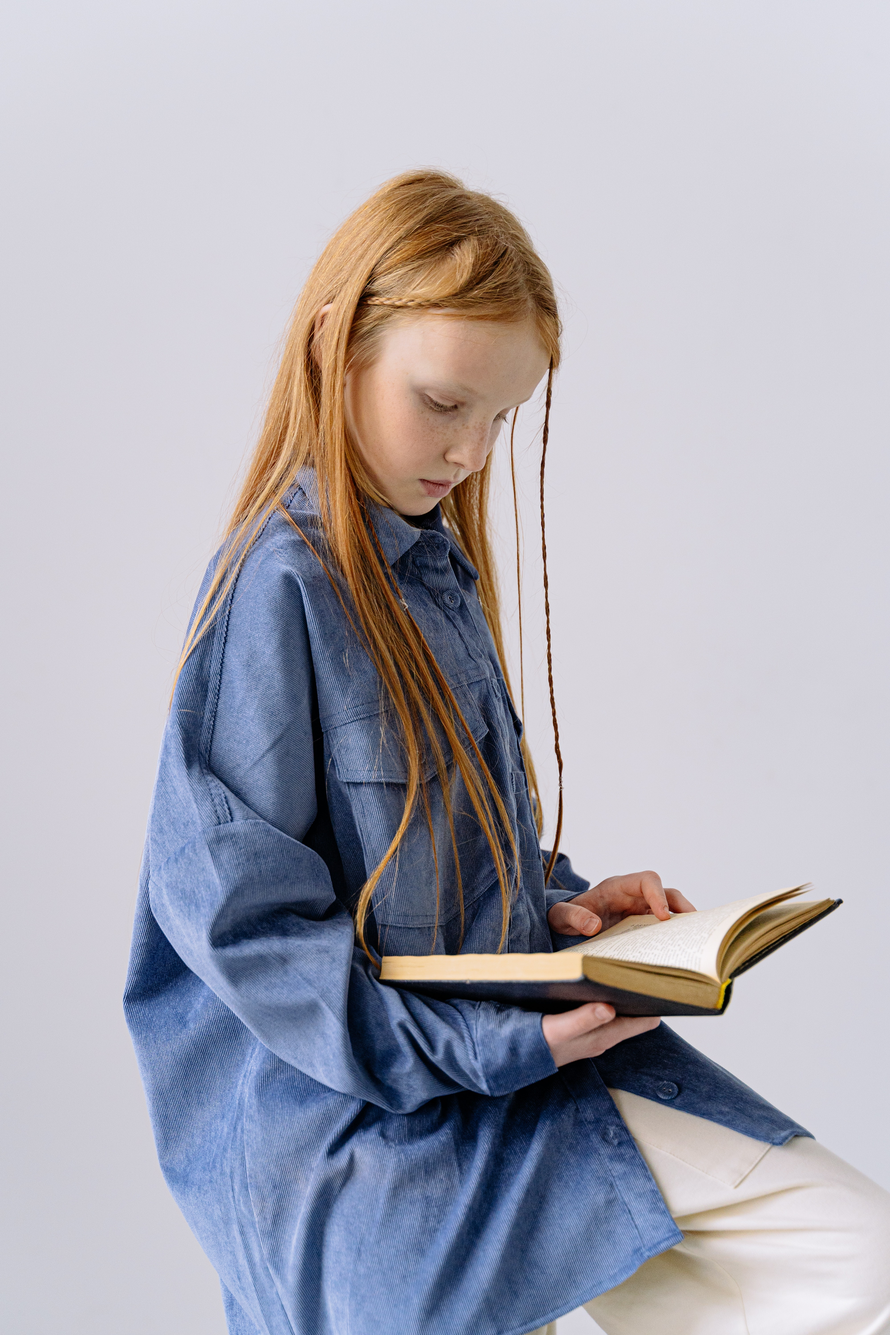
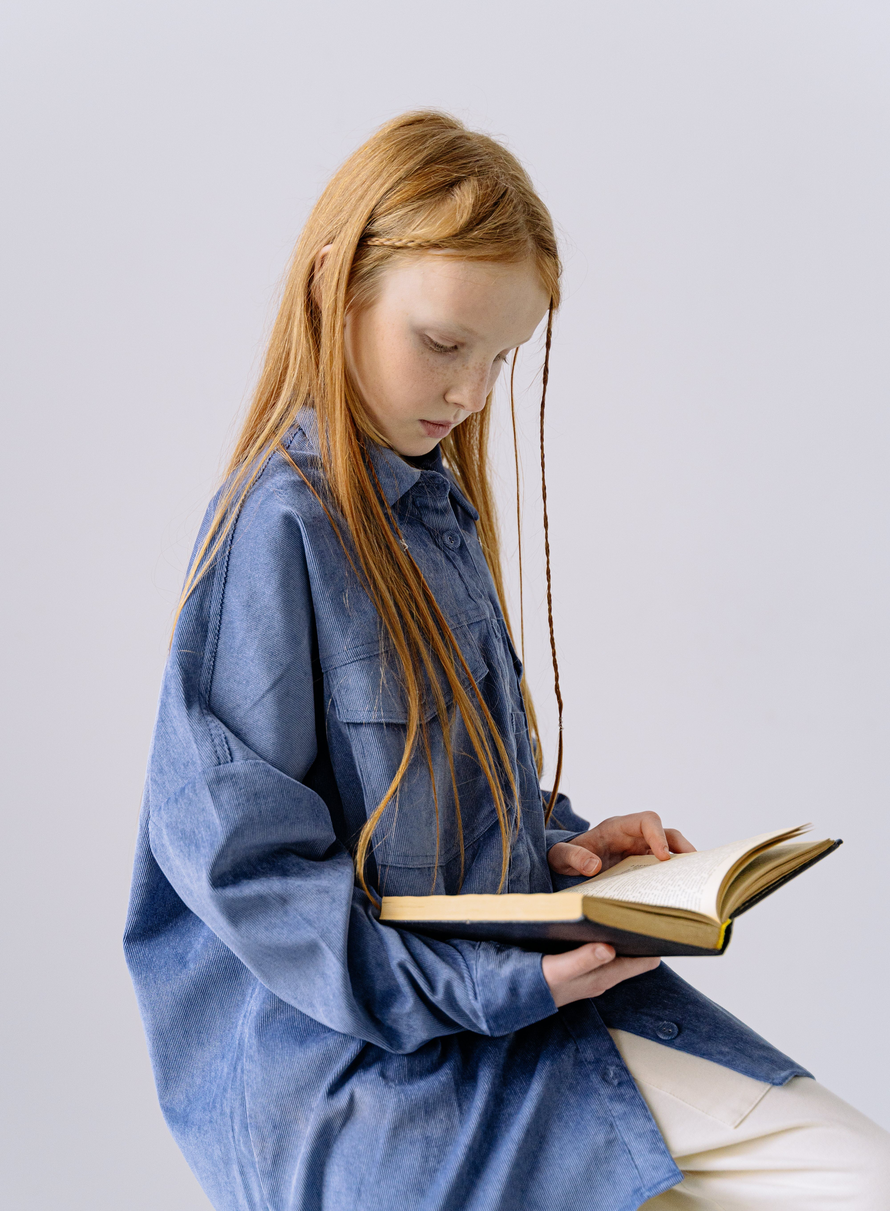
improve-on-hover

diff --git a/index.html b/index.html
@@ -5,6 +5,9 @@
     <title>Trường Quốc Tế</title>
     <meta charset="UTF-8" />
     <link rel="stylesheet" href="https://cdnjs.cloudflare.com/ajax/libs/font-awesome/4.7.0/css/font-awesome.min.css">
+    <link rel="stylesheet" href="https://cdnjs.cloudflare.com/ajax/libs/font-awesome/6.4.0/css/all.min.css"
+        integrity="sha512-iecdLmaskl7CVkqkXNQ/ZH/XLlvWZOJyj7Yy7tcenmpD1ypASozpmT/E0iPtmFIB46ZmdtAc9eNBvH0H/ZpiBw=="
+        crossorigin="anonymous" referrerpolicy="no-referrer" />
     <link rel="stylesheet" href="style.css">
     <script src="script.js"></script>
 </head>
@@ -15,7 +18,7 @@
         <nav>
             <div class="container">
                 <div class="logo">
-                    <img src="AIS-logo.svg" alt="logo">
+                    <img src="AIS-logo-white-l.svg" alt="logo">
                 </div>
                 <div class="menu">
                     <ul class="menu-list">
@@ -23,49 +26,61 @@
                             <a href="#">Về AIS</a>
                             <div class="menu-dropdown-head">
                                 <ul class="menu-dropdown-content">
-                                    <li><a href="#">Về Chúng Tôi</a></li>
-                                    <li><a href="#">Các cơ sở</a></li>
-                                    <li><a href="#">Kết quả học tập & giải thưởng</a></li>
+                                    <li><a href="#">Lời chào từ tổng hiệu trường</a></li>
+                                    <li><a href="#">Sứ mệnh</a></li>
+                                    <li><a href="#">Kiểm định & Giám định</a></li>
                                     <li><a href="#">Phương pháp học tập</a></li>
-                                    <li><a href="#">Our Team</a></li>
-                                    <li><a href="#">Cộng Đồng</a></li>
-                                    <li><a href="#">Cựu Sinh Viên</a></li>
-                                    <li><a href="#">Careers</a></li>
+                                    <li><a href="#">Ban giám hiệu</a></li>
+                                    <li><a href="#">Giáo viên</a></li>
+                                    <li><a href="#">Lịch học</a></li>
+                                    <li><a href="#">Cơ sở vật chất</a></li>
                                 </ul>
                             </div>
                         </li>
                         <li class="menu-dropdown">
-                            <a href="#">Dạy Và Học</a>
+                            <a href="#">Chương trình học</a>
                             <div class="menu-dropdown-head">
                                 <ul class="menu-dropdown-content">
-                                    <li><a href="#">Chứng Chỉ Tú Tài IB</a></li>
-                                    <li><a href="#">Học Thuật</a></li>
-                                    <li><a href="#">Giáo Trình Kết Hợp</a></li>
-                                    <li><a href="#">Chuẩn Bị Vào Đại Học</a></li>
+                                    <li><a href="#">Nguyên tắc học tập</a></li>
+                                    <li><a href="#">Hỗ Trợ Học Thuật</a></li>
+                                    <li><a href="#">Học tập từ xa</a></li>
+                                    <li><a href="#">Hoạt Động Ngoại Khóa</a></li>
                                 </ul>
                             </div>
                         </li>
-                        <li><a href="#">Khu Nội Trú</a></li>
+                        <li class="menu-dropdown">
+                            <a href="#">Đời Sống Học Sinh</a>
+                            <div class="menu-dropdown-head">
+                                <ul class="menu-dropdown-content">
+                                    <li><a href="#">Dịch Vụ Hỗ Trợ</a></li>
+                                    <li><a href="#">Học Tập Phục Vụ Cộng Đồng</a></li>
+                                    <li><a href="#">Hội Cựu Học Sinh</a></li>
+                                </ul>
+                            </div>
+                        </li>
                         <li class="menu-dropdown">
                             <a href="#">Tuyển Sinh</a>
                             <div class="menu-dropdown-head">
                                 <ul class="menu-dropdown-content">
+                                    <li><a href="#">Tiêu Chí Tuyển Sinh</a></li>
                                     <li><a href="#">Quy Trình Tuyển Sinh</a></li>
-                                    <li><a href="#">Đăng Kí Trực Tuyến</a></li>
-                                    <li><a href="#">Kết quả học tập & giải thưởng</a></li>
                                     <li><a href="#">Học Phí</a></li>
                                     <li><a href="#">Học Bổng</a></li>
                                 </ul>
                             </div>
                         </li>
                         <li class="menu-dropdown">
-                            <a href="#">Liên Hệ</a>
+                            <a href="#">Tin Tức & Sự Kiện</a>
                             <div class="menu-dropdown-head">
                                 <ul class="menu-dropdown-content">
-                                    <li><a href="#">Liên Hệ</a></li>
-                                    <li><a href="#">Đặt Lịch Tham Quan</a></li>
+                                    <li><a href="#">Thông Tin Chung</a></li>
+                                    <li><a href="#">Truyền Thông</a></li>
+                                    <li><a href="#">Sự Kiện</a></li>
                                 </ul>
                             </div>
+                        </li>
+                        <li class="menu-dropdown">
+                            <a href="#">Liên Hệ</a>
                         </li>
                         <li>
 
@@ -74,7 +89,7 @@
                                     <i class="fa fa-times" onclick="hiden()"></i>
                                     <input type="text" placeholder="Search">
                                 </div>
-                                <i class="fa fa-search" onclick="show()"></i>
+                                <i class="fa-solid fa-magnifying-glass" onclick="show()" style="color: white;"></i>
                             </div>
                         </li>
                     </ul>
@@ -95,7 +110,7 @@
         <section class="contents">
             <div class="container">
                 <div class="image">
-                    <img src="pic_body1.jpg" alt="">
+                    <img src="pic2.jpg" alt="">
                 </div>
                 <div class="content">
                     <h1>Trường Quốc Tế Úc (AIS) </h1>
@@ -174,8 +189,129 @@
                 </p>
             </div>
             <div class="image">
-                <img src="pic-body3.jpg" alt="">
+                <img src="pic-body2.jpg" alt="">
             </div>
+        </div>
+    </section>
+    <section class="information">
+        <a href="#" class="item">
+            <div class="icon-main">
+                <i class="fa-solid fa-map-location-dot"></i>
+            </div>
+            <div class="text-main">
+                <h1 class="heading">
+                    Khuôn Viên
+                </h1>
+                <div class="text">AISVN là trường quốc tế lớn nhất TP.HCM với khuôn viên 7 ha; 70% diện tích dành
+                    cho
+                    mảng xanh và
+                    hoạt động ngoài trời
+                </div>
+            </div>
+            <div class="for-more">
+                <p>Tìm hiểu thêm</p>
+                <div class="icon-body"><i class="fa-solid fa-circle-right"></i></div>
+            </div>
+        </a>
+        <a href="#" class="item">
+            <div class="icon-main">
+                <i class="fa-solid fa-school-flag"></i>
+            </div>
+            <div class="text-main">
+                <h1 class="heading">
+                    Cơ Sở Vật Chất
+                </h1>
+                <div class="text">Rộng thoáng, nhiều không gian chức năng cùng trang bị hiện đại cho các trải nghiệm
+                    học
+                    tập phong phú. Nhà trường cũng dành nhiều diện tích cho hoạt động câu lạc bộ, sự kiện, giải trí
+                    và
+                    thể thao
+                </div>
+            </div>
+            <div class="for-more">
+                <p>Tìm hiểu thêm</p>
+                <div class="icon-body"><i class="fa-solid fa-circle-right"></i></div>
+            </div>
+        </a>
+        <a href="#" class="item">
+            <div class="icon-main">
+                <i class="fa-sharp fa-solid fa-book-journal-whills"></i>
+            </div>
+            <div class="text-main">
+                <h1 class="heading">
+                    Chất Lượng Đào Tạo
+                </h1>
+                <div class="text">AISVN đạt kiểm định từ CIS, WASC và được IBO cấp phép giảng dạy IB Toàn phần từ Dự
+                    bị
+                    Tiểu học đến Lớp 12
+                </div>
+            </div>
+            <div class="for-more">
+                <p>Tìm hiểu thêm</p>
+                <div class="icon-body"><i class="fa-solid fa-circle-right"></i></div>
+            </div>
+        </a>
+        <a href="#" class="item">
+            <div class="icon-main">
+                <i class="fa-solid fa-award"></i>
+            </div>
+            <div class="text-main">
+                <h1 class="heading">
+                    Bằng Cấp Chuyên Môn
+                </h1>
+                <div class="text">Giáo viên Âu Mỹ có bằng cấp giảng dạy và chứng chỉ giáo dục quốc tế; 51% giáo viên
+                    là
+                    Thạc sĩ và 2% là Tiến sĩ
+                </div>
+            </div>
+            <div class="for-more">
+                <p>Tìm hiểu thêm</p>
+                <div class="icon-body"><i class="fa-solid fa-circle-right"></i></div>
+            </div>
+        </a>
+        <a href="#" class="item">
+            <div class="icon-main">
+                <i class="fa-solid fa-bus"></i>
+            </div>
+            <div class="text-main">
+                <h1 class="heading">
+                    Xe Đưa Đón
+                </h1>
+                <div class="text">Đội xe riêng 80 chiếc của AISVN giúp đảm bảo an toàn cho học sinh trên đường đến
+                    trường và về nhà với hệ thống 55 điểm đón rộng khắp 14 quận huyện TP.HCM
+                </div>
+            </div>
+            <div class="for-more">
+                <p>Tìm hiểu thêm</p>
+                <div class="icon-body"><i class="fa-solid fa-circle-right"></i></div>
+            </div>
+        </a>
+        <a href="#" class="item">
+            <div class="icon-main">
+                <i class="fa-solid fa-graduation-cap"></i>
+            </div>
+            <div class="text-main">
+                <h1 class="heading">
+                    Kết Quả Vượt Trội
+                </h1>
+                <div class="text">
+                    44/45 là điểm IB cao nhất của học sinh AISVN
+                    <br>
+                    Điểm IB trung bình tại AISVN: 34 điểm
+                    <br>
+                    Điểm IB trung bình thế giới: 32 điểm
+                </div>
+            </div>
+            <div class="for-more">
+                <p>Tìm hiểu thêm</p>
+                <div class="icon-body"><i class="fa-solid fa-circle-right"></i></div>
+            </div>
+        </a>
+    </section>
+    <section class="news">
+        <h1>tin tức và sự kiện</h1>
+        <div class="slide">
+            
         </div>
     </section>
 </body>

diff --git a/style.css b/style.css
@@ -1,8 +1,11 @@
 *{
     box-sizing: border-box;
     font-style: normal;
-    line-height: 24px;
+    /* line-height: 24px; */
     font-family: Arial, Helvetica, sans-serif;
+}
+body {
+    margin: 0;
 }
 .container {
     width: 100%;
@@ -12,9 +15,6 @@
     display: flex;
     justify-content: space-between;
     justify-items: center;
-}
-.container {
-    display: flex;
 }
 .header {
     background-image: linear-gradient(rgba(4,9,30,0.7), rgba(4,9,30,0.7)),url(bg_header.jpg) ;
@@ -37,7 +37,7 @@
     width: 100%;
 }
 .menu {
-    padding-right: 30px;
+    /* padding-right: 30px; */
     /* padding-left: 160px; */
 }
 .menu > ul {
@@ -45,7 +45,7 @@
 }
 .menu-list > li {
     list-style-type: none;
-    padding: 30px;
+    padding: 15px;
     display: inline-block;
     position: relative;
 }
@@ -65,7 +65,7 @@
 .menu-list > li > a {
     text-decoration: none;
     font-size: 20px;
-    color: #3277bc;
+    color: white;
 }
 .find {
     display: flex;
@@ -86,8 +86,8 @@ li.menu-dropdown > a{
 }
 .menu-dropdown-head {
     display: none;
-    position: absolute;
-    left: 0;
+    /* position: absolute; */
+    /* left: 0; */
 }
 .menu-dropdown:hover .menu-dropdown-head{
     display: block;
@@ -206,4 +206,72 @@ li.menu-dropdown > a{
     letter-spacing: 1px;
     margin: 1.25rem 180px  1.1875rem;
     color: white;
+}
+.information {
+    display: grid;
+    grid-template-columns: repeat(3,400px);
+    padding-top: 30px;
+    padding-right: 30px;
+    padding-bottom: 80px;
+    padding-left: 80px;
+    flex-direction: column;
+    align-items: center;
+    width: 100%;
+    margin-left: auto;
+    margin-right: auto;
+    max-width: 1400px;
+}
+.item {
+    display: grid;
+    background-color: #d0ebff;
+    margin: 10px;
+    justify-items: left;
+    align-items: start;
+    grid-template-columns: repeat(2,minmax(200px,1fr));
+    grid-column-gap: 16px;
+    grid-row-gap: 20px;
+    grid-template-columns: 100px 1fr !important;
+    grid-template-rows: 1fr 20px !important;
+    align-self: stretch;
+    box-sizing: border-box;
+    padding: 20px 30px 30px 40px;
+    color: #007dc5;
+    font-size: 16px;
+    border-radius: 15px;
+    background-color: #d0ebff;
+    transition-duration: 0.3s;
+    text-decoration: none;
+}
+.icon-main {
+   font-size: 80px;
+}
+.icon-main > i {
+    /* width: 100%; */
+    font-size: 80px;
+}
+
+.text-main{
+    align-items: flex-start;
+    text-align: left;
+    flex-direction: column;
+    display: flex;
+    gap: 8px;
+}
+.for-more {
+    display: flex;
+    flex-direction: row;
+    grid-column: 1/ span 2;
+    font-weight: 600;
+}
+.icon-body {
+    margin: 16px 0 0 10px;
+}
+
+.information > .item:hover {
+    background-color: wheat;
+}
+.news > h1 {
+    text-transform: uppercase;
+    font-size: 50px;
+    text-align: center;
 }
